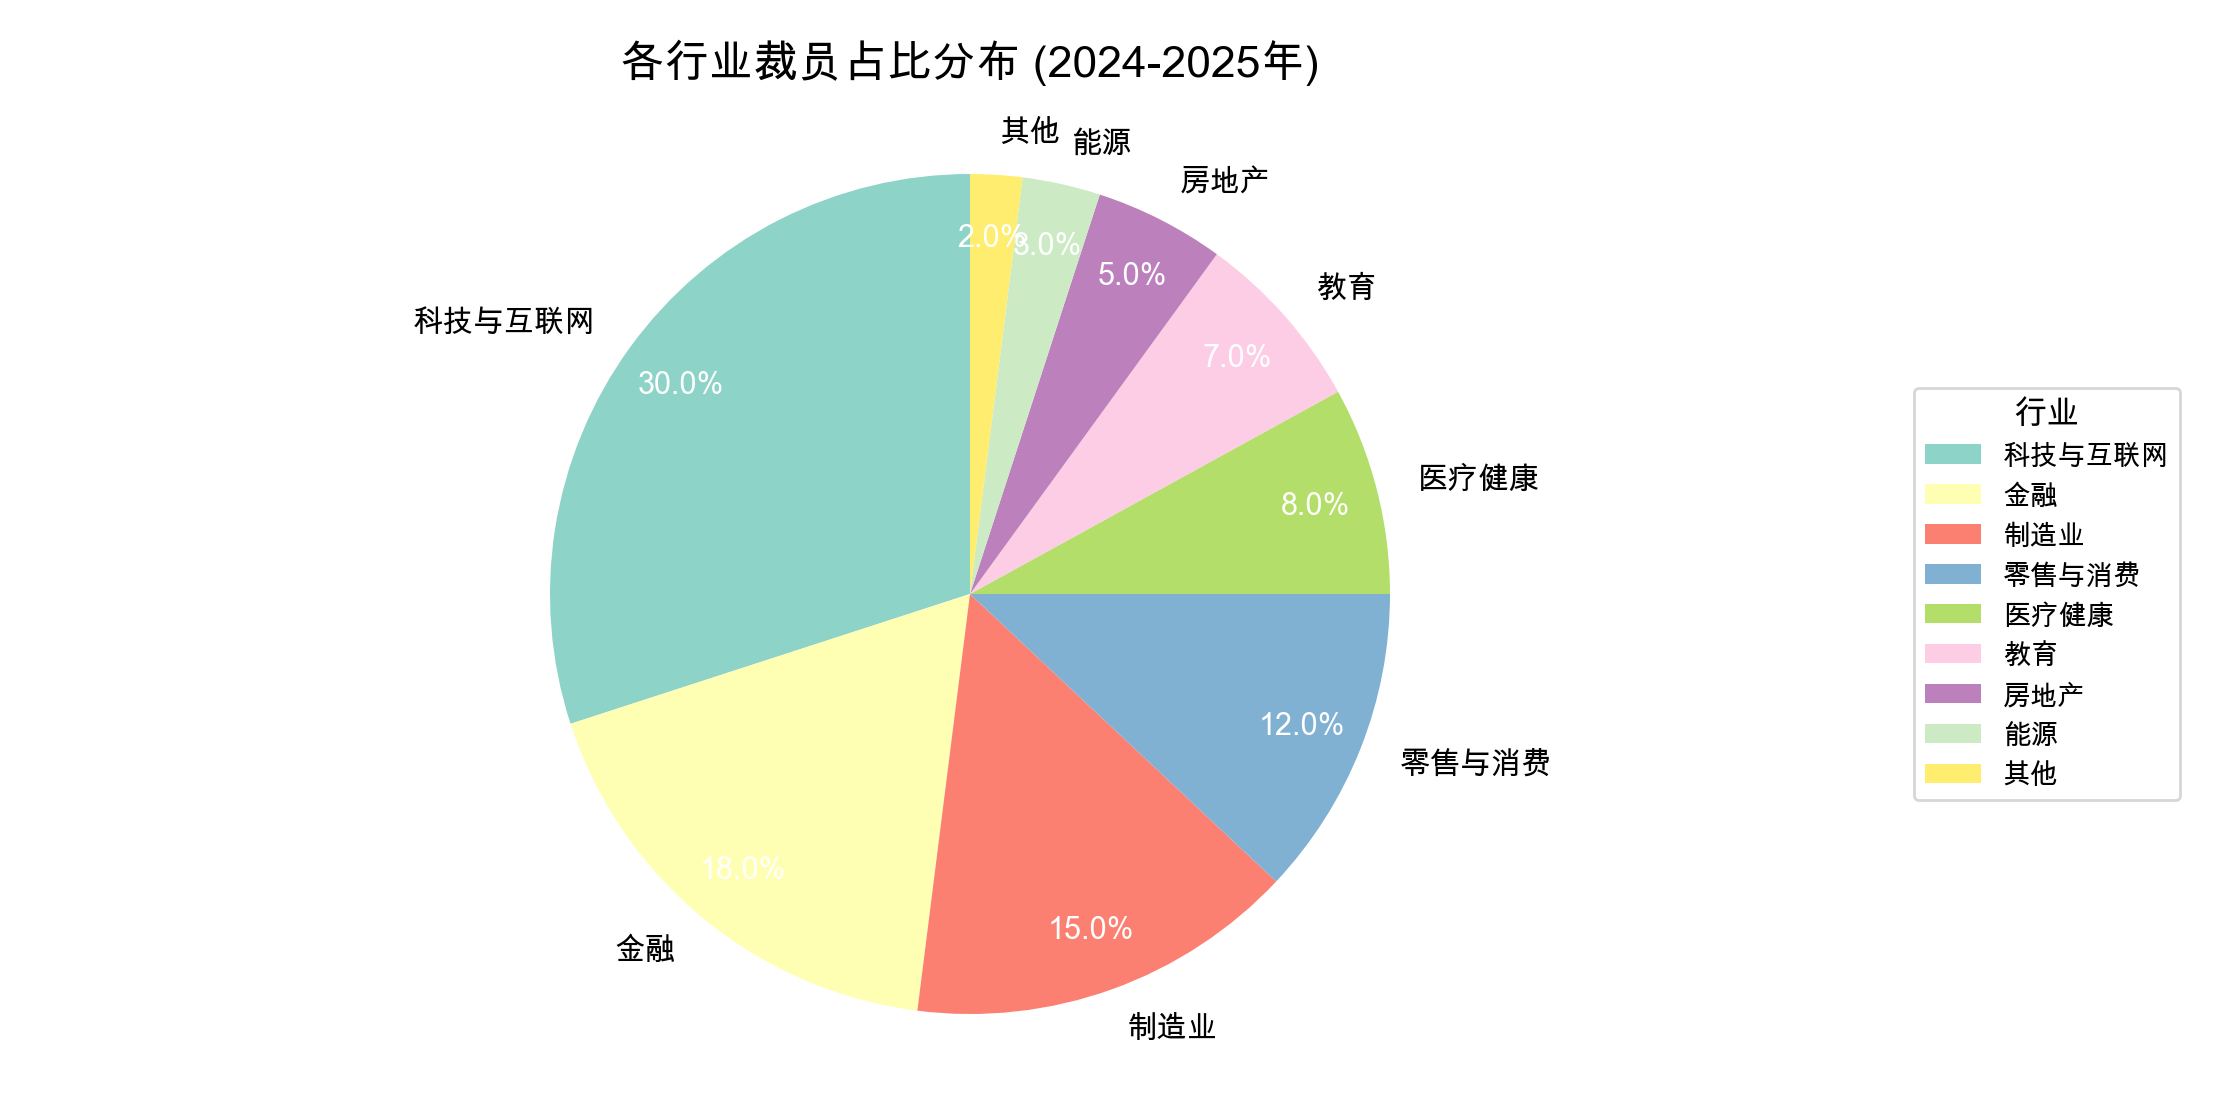
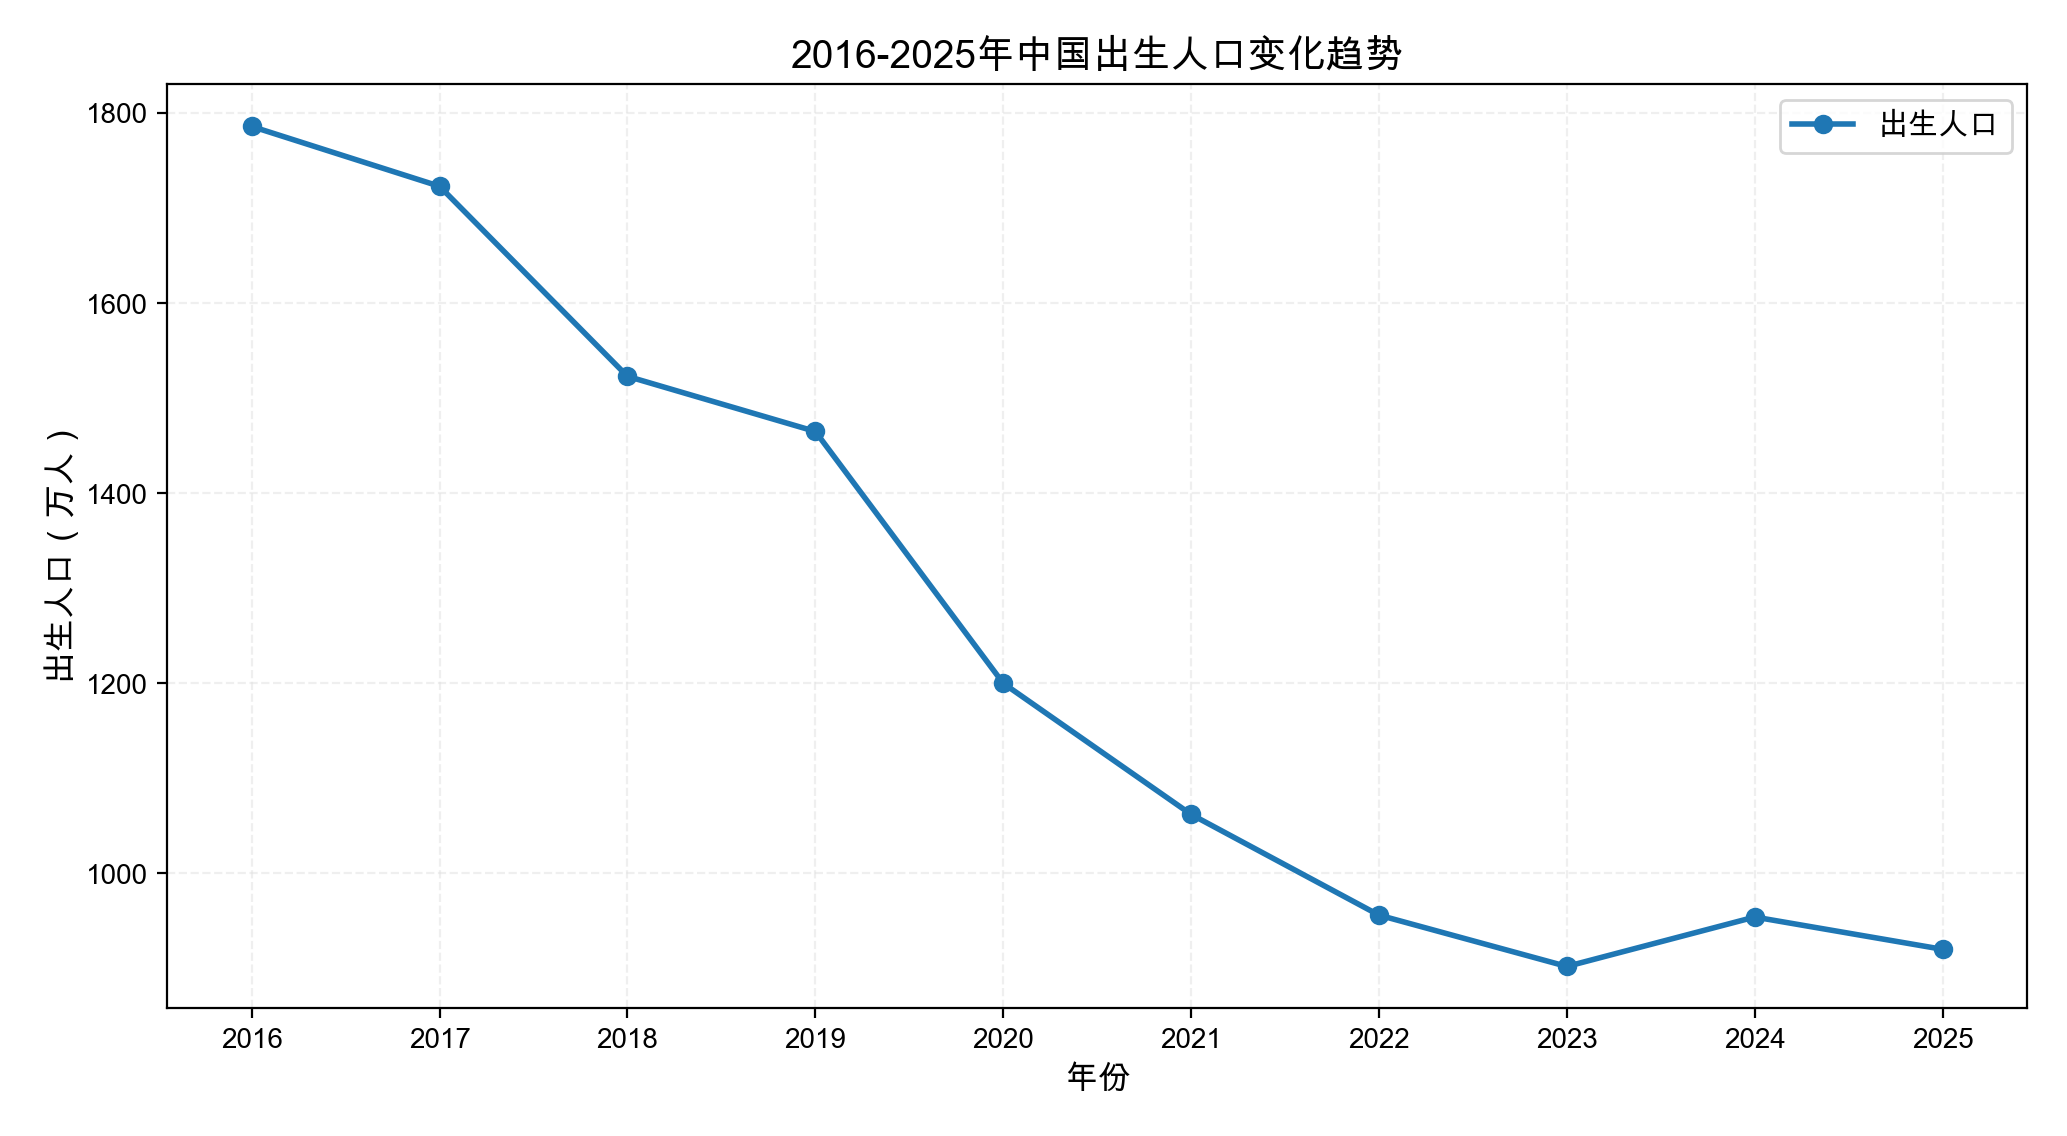
fix: ChatContainer 添加 className prop，main 区域传递 flex-1 解决滚动问题

diff --git a/frontend/src/features/ai-chat/components/ChatContainer.tsx b/frontend/src/features/ai-chat/components/ChatContainer.tsx
@@ -1,10 +1,11 @@
 interface ChatContainerProps {
   children: React.ReactNode;
+  className?: string;
 }
 
-export function ChatContainer({ children }: ChatContainerProps) {
+export function ChatContainer({ children, className = "" }: ChatContainerProps) {
   return (
-    <div className="max-w-[820px] mx-auto w-full px-4 md:px-6 xl:px-8">
+    <div className={`max-w-[820px] mx-auto w-full px-4 md:px-6 xl:px-8 ${className}`}>
       {children}
     </div>
   );

diff --git a/frontend/src/pages/ChatInterface.tsx b/frontend/src/pages/ChatInterface.tsx
@@ -149,7 +149,7 @@ export function ChatInterface() {
         </header>
 
         <main className="flex-1 overflow-hidden relative">
-          <ChatContainer>
+          <ChatContainer className="flex-1 min-h-0 flex flex-col">
             <MessageList />
           </ChatContainer>
         </main>
